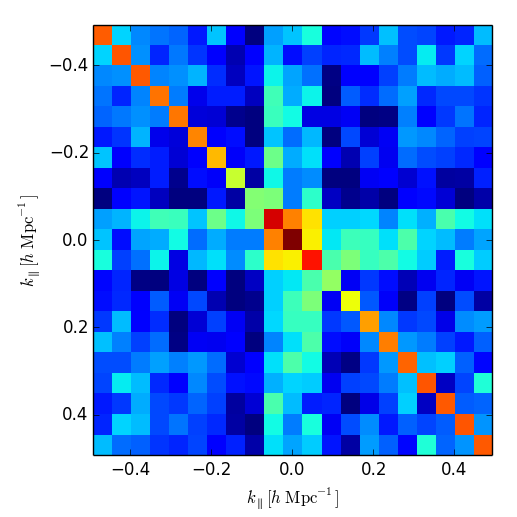
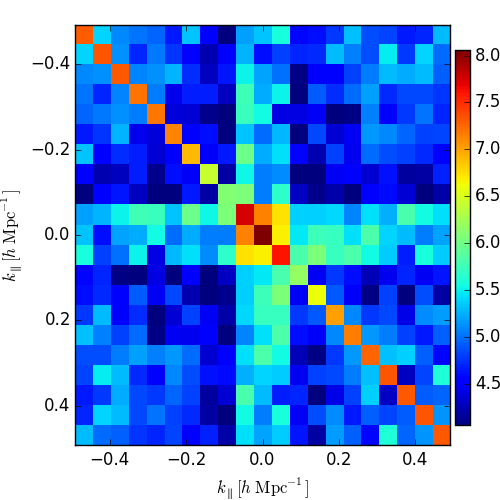
update to a few plots

diff --git a/plots/pspec_plot_pk_k3pk.py b/plots/pspec_plot_pk_k3pk.py
@@ -23,6 +23,8 @@ o.add_option('--show', action='store_true',
 opts,args = o.parse_args(sys.argv[1:])
 print args
 
+dspec='data/final_pspecs/v032/nocov_pspec.npz'
+args=['data/final_pspecs/v032/pspec.npz']
 
 def noise_level():
     tsys = 500e3 #mK
@@ -65,7 +67,7 @@ def noise_level():
 
 ONLY_POS_K = True
 
-def dual_plot(kpl, pk, err, pkfold=None, errfold=None, umag=16., f0=.164, color='', bins=None):
+def dual_plot(kpl, pk, err, pkfold=None, errfold=None, umag=16., f0=.164, color='', bins=None, upperlimit=False):
     z = C.pspec.f2z(f0)
     kpr = C.pspec.dk_du(z) * umag
     k = n.sqrt(kpl**2 + kpr**2)
@@ -82,7 +84,8 @@ def dual_plot(kpl, pk, err, pkfold=None, errfold=None, umag=16., f0=.164, color=
     #pk = n.abs(pk)
     #p.errorbar(kpl, pk, yerr=err, fmt=color+'.-')
     #p.errorbar(kpl, n.abs(pk), yerr=err, fmt='mx')
-    p.errorbar(kpl, pk, yerr=err, fmt=color+'.', capsize=0, linewidth=1.2)
+    if not upperlimit: p.errorbar(kpl, pk, yerr=err, fmt=color+'.', capsize=0, linewidth=1.2)
+    else: p.plot(kpl, pk+err, color+'-')
     #p.errorbar(kpl, pk.imag, yerr=err, fmt=color+'x')
     p.subplot(122)
     k0 = n.abs(kpl).argmin()
@@ -91,7 +94,8 @@ def dual_plot(kpl, pk, err, pkfold=None, errfold=None, umag=16., f0=.164, color=
         pkfold = pk[k0:].copy()
         errfold = err[k0:].copy()
         pkpos,errpos = pk[k0+1:].copy(), err[k0+1:].copy()
-        pkneg,errneg = pk[k0-1:0:-1].copy(), err[k0-1:0:-1].copy()
+        pkneg,errneg = pk[k0-1::-1].copy(), err[k0-1::-1].copy()
+        print pkneg.shape, pkpos.shape
         pkfold[1:] = (pkpos/errpos**2 + pkneg/errneg**2) / (1./errpos**2 + 1./errneg**2)
         errfold[1:] = n.sqrt(1./(1./errpos**2 + 1./errneg**2))
     else:
@@ -100,7 +104,8 @@ def dual_plot(kpl, pk, err, pkfold=None, errfold=None, umag=16., f0=.164, color=
         #pkfold = pkfold.imag
 
     #p.errorbar(k, k3*pk, yerr=k3*err, fmt=color+'.', capsize=0)
-    p.errorbar(k[k0:], k3[k0:]*pkfold, yerr=k3[k0:]*errfold, fmt=color+'.', capsize=0,linewidth=1.2)
+    if not upperlimit: p.errorbar(k[k0:], k3[k0:]*pkfold, yerr=k3[k0:]*errfold, fmt=color+'.', capsize=0,linewidth=1.2)
+    else: p.plot(k[k0:], k3[k0:]*pkfold+k3[k0:]*errfold)
     if not bins is None:
         _kpls, _k3pks, _k3errs = [], [], []
         for (dn,up) in bins:
@@ -171,9 +176,9 @@ def dual_plot(kpl, pk, err, pkfold=None, errfold=None, umag=16., f0=.164, color=
 FG_VS_KPL_NOS = 168.74e6
 FG_VS_KPL = { # K^2
 #    '-0.054':   5.37262e+13,
-#    '-0.027':   7.15304e+14, 
-    ' 0.000':   3.50958e+15, 
-#    ' 0.027':   4.12396e+14, 
+    '-0.049':   1.06015e+15,
+    ' 0.000':   8.44e+15, 
+    ' 0.049':   1.22195e+15, 
 #    ' 0.054':   2.60795e+13,
     #-0.0536455587089:   5.37262e+13,
     #-0.0268227793545:   7.15304e+14, 
@@ -223,6 +228,31 @@ if True:
     for _kpl in dsum_fold:
         RS_VS_KPL_FOLD['total'][_kpl] = (dsum_fold[_kpl] / dwgt_fold[_kpl], 1./n.sqrt(dwgt_fold[_kpl]))
 
+#if False: # put in raw delay spec
+if True: # put in raw delay spec
+    f = n.load(dspec)
+    kpl,pk,err = f['kpl'], f['pk'], f['err']
+    print kpl
+    if True: #if 'I' in sep: # Add foregrounds
+        for cnt,k in enumerate(kpl):
+            k = '%6.3f' % k
+            if not FG_VS_KPL.has_key(k): continue
+            pk[cnt] += FG_VS_KPL[k]
+            err[cnt] = 2*n.sqrt(FG_VS_KPL_NOS*FG_VS_KPL[k])
+#    pk *= .76 # psa747 calibration of Pic A = 370.6 Jy @ 160 MHz (which includes resolution effects)
+#    err *= .76
+    pk *= 2.35 # Use power**2 beam, which is a 1.69/0.72=2.35 penalty factor
+    err *= 2.35
+    pk *= 1.46 # fix scale to reflect new corrected bandwidth normalization
+    err *= 1.46
+    if False: # For aggressive fringe-rate filtering, change beam area
+        pk *= 1.90 # ratio of power**2 beams for filtered * unfiltered beams: 0.306 / 0.162
+        err *= 1.90
+    print pk.shape, err.shape
+    dual_plot(kpl, pk, 2*err, color='c', upperlimit=True) # 2-sigma error bars
+
+
+
 BINS = None
 #BINS = ((-.52,-.4),(-.4,-.2),(-.2,-.15),(-.15,-.1),(-.1,-.06),(-.06,.06),(.06,.1),(.1,.15),(.15,.2),(.2,.4),(.4,.52))
 #BINS = ((-.5,-.25),(-.25,-.125),(-.125,-.0625),(-.0625,.0625),(.0625,.125),(.125,.25),(.25,.5))
@@ -261,7 +291,8 @@ for sep in RS_VS_KPL:
     nos_fold = [1./n.sqrt(dwgt_fold[k]) for k in kpl_fold]
     #d = [RS_VS_KPL[k][0] for k in kpl]
     #nos = [RS_VS_KPL[k][1] for k in kpl]
-    if False: #if 'I' in sep: # Add foregrounds
+    if True: #if 'I' in sep: # Add foregrounds
+        print 'Adding Foregrounds'
         for cnt,k in enumerate(kpl):
             k = '%6.3f' % k
             if not FG_VS_KPL.has_key(k): continue
@@ -275,7 +306,7 @@ for sep in RS_VS_KPL:
         
     d,kpl,nos = n.array(d, dtype=n.complex), n.array(kpl), n.array(nos)
     d_fold,kpl_fold,nos_fold = n.array(d_fold, dtype=n.complex), n.array(kpl_fold), n.array(nos_fold)
-    if opts.flux:
+    if False:
         # PSA32 was calibrated to Pictor A @ 160 MHz = 424 Jy
         # To recalibrate to new Pic A, must multiply by square of ratio of fluxes
         # Jacobs et al 2013 says Pic A = 382 @ 150 MHz, index=-0.76, so at 160 MHz, Pic A = 364 Jy
@@ -287,14 +318,14 @@ for sep in RS_VS_KPL:
         nos *= f
         d_fold *= f
         nos_fold *= f
-    if opts.beam:
+    if False:
         f = 2.35 # Use power**2 beam, which is a 1.69/0.72=2.35 penalty factor
         print 'Scaling data and noise by %f for correcting cosmo scalar to use power^2 beam' % f
         d *= f
         nos *= f
         d_fold *= f
         nos_fold *= f
-    if opts.afrf: # For aggressive fringe-rate filtering, change beam area
+    if True: # For aggressive fringe-rate filtering, change beam area
         f = opts.afrf_factor
         f = 1.90 # ratio of power**2 beams for filtered * unfiltered beams: 0.306 / 0.162
         print 'Scaling data and noise by %f for beam constriction in aggressive fringe-rate filtering' % f
@@ -302,7 +333,7 @@ for sep in RS_VS_KPL:
         nos *= f
         d_fold *= f
         nos_fold *= f
-    if opts.cov: # extra penalty for signal loss in covariance diagonalization
+    if True: # extra penalty for signal loss in covariance diagonalization
         #f = 1.2
         f = 1.15 # this is the conservative number, for the biggest modes outside the of the wedge. Get ~1.03 correction at k=.2
         print 'Scaling data and noise by %f for signal loss in covariance diagonalization' % f
@@ -310,9 +341,9 @@ for sep in RS_VS_KPL:
         nos *= f
         d_fold *= f
         nos_fold *= f
-    if opts.med:
-        f = 1.44
-        print 'Scaling data and noise by %f for using median statistics rather than the mean'
+    if True:
+        f = 1/n.log(2)
+        print 'Scaling data and noise by %f for using the median statistic'%f
         d *= f
         nos *= f
         d_fold *= f
@@ -350,13 +381,13 @@ for filename in glob.glob('lidz_mcquinn_k3pk/*7.3*dat'):
 tau_h = 100 + 15. #in ns
 k_h = C.pspec.dk_deta(C.pspec.f2z(.151)) * tau_h
 p.subplot(121)
-p.vlines(k_h, -1e7, 1e10, linestyles='--', linewidth=1.5)
-p.vlines(-k_h, -1e7, 1e10, linestyles='--', linewidth=1.5)
-#p.gca().set_yscale('log', nonposy='clip')
+p.vlines(k_h, -1e7, 1e20, linestyles='--', linewidth=1.5)
+p.vlines(-k_h, -1e7, 1e20, linestyles='--', linewidth=1.5)
+p.gca().set_yscale('log', nonposy='clip')
 p.xlabel(r'$k_\parallel\ [h\ {\rm Mpc}^{-1}]$', fontsize='large')
 p.ylabel(r'$P(k)[\ {\rm mK}^2\ (h^{-1}\ {\rm Mpc})^3]$',fontsize='large')
 #p.ylim(-1e7,1e8)
-p.ylim(-.6e7,1.75e7)
+p.ylim(1e5,5e16)
 p.grid()
 
 
@@ -426,15 +457,26 @@ def posterior(kpl, pk, err, pkfold=None, errfold=None):
     #data/=n.sum(data)
     data /= n.max(data)
     p.figure(5)
-#    p.plot(s, data)
+    p.plot(s, data)
     #use a spline interpolator to get the 1 and 2 sigma limits.
-    spline = interp.interp1d(data,s)
-    print spline
-    print max(data), min(data)
-    print spline(.68), spline(.95)
+    #spline = interp.interp1d(data,s)
+    #print spline
+    #print max(data), min(data)
+    #print spline(.68), spline(.95)
     #p.plot(spline(n.linspace(.0,1,100)),'o')
     p.plot(s, n.exp(-.5)*n.ones_like(s))
     p.plot(s, n.exp(-.5*2**2)*n.ones_like(s))
+#    p.plot(s, ndata)
+    std = n.std(data)
+    mean = n.mean(data) 
+    sig1 = mean+std
+    sig2 = mean+(2*std)
+    print sig1, sig2
+    print n.where(data-sig1 < .01)
+    print mean, std
+    p.xlabel(r'$k^3/2\pi^2\ P(k)\ [{\rm mK}^2]$', fontsize='large')
+    p.ylabel('Posterior Probability Density', fontsize='large')
+    p.xlim(0,600)
     p.show()
 
 #posterior(f['kpl'], f['pk'], f['err'], f['pk_fold'], f['err_fold'])

diff --git a/plots/pspec_plot_pk_k3pk_multi.py b/plots/pspec_plot_pk_k3pk_multi.py
@@ -1,7 +1,7 @@
 #! /usr/bin/env python
 import aipy as a, numpy as n, pylab as p
 import capo as C
-import sys, optparse, re, os
+import sys, optparse, re, os, glob
 
 o=optparse.OptionParser()
 o.add_option('--flux', action='store_true', 
@@ -21,8 +21,12 @@ o.add_option('--show', action='store_true',
 opts,args = o.parse_args(sys.argv[1:])
 print args
 
+args = glob.glob('data/final_pspecs/v03*/pspec.npz')
+
 ERRORS = {}
 
+
+fig = p.figure(figsize=(12,7.2))
 def dual_plot(kpl, pk, err, pkfold=None, errfold=None, umag=16, f0=.164, color='', ls='.', bins=None, verbose=True, offset=0):
     z = C.pspec.f2z(f0)
     kperp = C.pspec.dk_du(z) * umag #k_perp, from baseline length in wavelengths.
@@ -124,8 +128,9 @@ RS_VS_KPL_FOLD = {} #K^2
 powerspec, powerspecwgt = {}, {}
 powerspec_fold, powerspecwgt_fold = {}, {}
 
-colors = 'kkk'
-lss = ['-','--','-.',':']
+colors = 'cmk'
+#lss = ['-','--','-.',':']
+lss = ['-','-','-',':']
 for filename in args:
     print 'Reading', filename
     f = n.load(filename)
@@ -167,7 +172,7 @@ for cnt,filename in enumerate(args):
     d,kpl,nos = n.array(d, dtype=n.complex), n.array(ks), n.array(nos)
     d_fold,kpl_fold,nos_fold = n.array(d_fold, dtype=n.complex), n.array(ks_fold), n.array(nos_fold)
     
-    if opts.flux:
+    if False:
         # PSA32 was calibrated to Pictor A @ 160 MHz = 424 Jy
         # To recalibrate to new Pic A, must multiply by square of ratio of fluxes
         # Jacobs et al 2013 says Pic A = 382 @ 150 MHz, index=-0.76, so at 160 MHz, Pic A = 364 Jy
@@ -179,7 +184,7 @@ for cnt,filename in enumerate(args):
         nos *= f
         d_fold *= f
         nos_fold *= f
-    if opts.beam:
+    if False:
         f = 2.35 # Use power**2 beam, which is a 1.69/0.72=2.35 penalty factor
         print 'Scaling data and noise by %f for correcting cosmo scalar to use power^2 beam' % f
         d *= f
@@ -187,24 +192,34 @@ for cnt,filename in enumerate(args):
         d_fold *= f
         nos_fold *= f
     #if True: # For aggressive fringe-rate filtering, change beam area
-    if opts.afrf: # For aggressive fringe-rate filtering, change beam area
-        f = opts.afrf_factor
+    if True: # For aggressive fringe-rate filtering, change beam area
+        if 'v031' in filename: pass
+        #f = opts.afrf_factor
         f = 1.90 # ratio of power**2 beams for filtered * unfiltered beams: 0.306 / 0.162
         print 'Scaling data and noise by %f for beam constriction in aggressive fringe-rate filtering' % f
         d *= f
         nos *= f
         d_fold *= f
         nos_fold *= f         
-    if opts.cov: # extra penalty for signal loss in covariance diagonalization
-        f = 1.5
+    if True: # extra penalty for signal loss in covariance diagonalization
+        f = 1.15#updated value
         print 'Scaling data and noise by %f for signal loss in covariance diagonalization' % f
         d *= f
         nos *= f
         d_fold *= f
         nos_fold *= f
+
+    if True: # penalty for using median statistic
+        f = 1/n.log(2)#updated value
+        print 'Scaling data and noise by %f for signal loss in covariance diagonalization' % f
+        d *= f
+        nos *= f
+        d_fold *= f
+        nos_fold *= f
+ 
     
     if d_fold.size==0: d_fold,nos_fold=None,None
-    dual_plot(kpl, d, 2*nos, d_fold, 2*nos_fold, color=colors[0], ls=lss[0], bins=None, f0=freq, offset=.01*cnt)
+    dual_plot(kpl, d, 2*nos, d_fold, 2*nos_fold, color=colors[0], ls=lss[0], bins=None, f0=freq, offset=.005*cnt)
     colors = colors[1:] + colors[0]
     lss = lss[1:] + lss[:1]
 
@@ -220,10 +235,10 @@ k_h = C.pspec.dk_deta(C.pspec.f2z(.151)) * tau_h
 p.subplot(121)
 p.vlines(k_h, -1e7, 1e10, linestyles='--', linewidth=1.5)
 p.vlines(-k_h, -1e7, 1e10, linestyles='--', linewidth=1.5)
-#p.gca().set_yscale('log', nonposy='clip')
-p.xlabel(r'$k_\parallel\ [h\ {\rm Mpc}^{-1}]$')
-p.ylabel(r'$P(k)\ [{\rm mK}^2\ (h^{-1}\ {\rm Mpc})^3]$')
-p.ylim(-.6e7,1.75e7)
+p.gca().set_yscale('log', nonposy='clip')
+p.xlabel(r'$k_\parallel\ [h\ {\rm Mpc}^{-1}]$', fontsize='large')
+p.ylabel(r'$P(k)\ [{\rm mK}^2\ (h^{-1}\ {\rm Mpc})^3]$', fontsize='large')
+p.ylim(1e5,1e9)
 p.grid()
 
 
@@ -250,8 +265,8 @@ except:
 #
 #
 p.gca().set_yscale('log', nonposy='clip')
-p.xlabel(r'$k\ [h\ {\rm Mpc}^{-1}]$')
-p.ylabel(r'$k^3/2\pi^2\ P(k)\ [{\rm mK}^2]$')
+p.xlabel(r'$k\ [h\ {\rm Mpc}^{-1}]$', fontsize='large')
+p.ylabel(r'$k^3/2\pi^2\ P(k)\ [{\rm mK}^2]$', fontsize='large')
 p.ylim(1e0,1e9)
 p.xlim(0, 0.6)
 #p.suptitle(colors)

diff --git a/plots/plot_picimg.py b/plots/plot_picimg.py
@@ -24,6 +24,11 @@ o.add_option('-f', '--fft', dest='fft', action='store_true',
     help='Perform 2D FFT of image.')
 opts, args = o.parse_args(sys.argv[1:])
 
+opts.drng = 4
+opts.max = 2
+
+args = ['data/gianni/all_psa64-image.fits']
+
 cmap = p.get_cmap(opts.cmap)
 if opts.batch: m1,m2 = 1,1
 else:
@@ -87,22 +92,32 @@ for cnt, filename in enumerate(args):
     if not opts.drng is None: min = max - opts.drng
     else: min = d.min()
 
-    fig = p.figure(figsize=(4.5,4.5))
+#    fig = p.figure(figsize=(4.5,4.5))
     fig = p.figure()
     p.subplot(m2, m1, cnt+1)
     if not opts.nogrid:
         from mpl_toolkits.basemap import Basemap
+        from matplotlib.patches import Circle
         xpx,ypx = d.shape
         dx1 = -(xpx/2 + .5) * kwds['d_ra'] * a.img.deg2rad
         dx2 = (xpx/2 - .5) * kwds['d_ra'] * a.img.deg2rad
         dy1 = -(ypx/2 + .5) * kwds['d_dec'] * a.img.deg2rad
         dy2 = (ypx/2 - .5) * kwds['d_dec'] * a.img.deg2rad
-        map = Basemap(projection='ortho', lon_0=180, lat_0=kwds['dec'],
-            rsphere=1, llcrnrx=dx1, llcrnry=dy1, urcrnrx=dx2,urcrnry=dy2)
-        map.drawmeridians(n.arange(kwds['ra']-180,kwds['ra']+180,30))
-        map.drawparallels(n.arange(-90,120,30))
+        map = Basemap(projection='ortho', lon_0=kwds['ra'], lat_0=kwds['dec'],
+            rsphere=1, llcrnrx=dx1, llcrnry=dy1, urcrnrx=dx2,urcrnry=dy2, celestial=True)
+        map.drawmeridians(n.arange(kwds['ra']-180,kwds['ra']+180,15), labels=[False,False,False,True])
+        map.drawparallels(n.arange(-90,120,15), labels=[False,True,True,False])
         map.drawmapboundary()
         im1 = map.imshow(d, vmin=min, vmax=max, cmap=cmap, interpolation='nearest')
+
+        picdec = -45.78
+        picra = -80.09
+        picdec = -37.2083
+        picra = -50.6708
+        x,y = map(picra, picdec)
+        circ = Circle((x,y), radius=.01, facecolor='none',edgecolor='black' )
+        p.gca().add_patch(circ)
+
     else: im1 = p.imshow(d, vmin=min, vmax=max, origin='lower', cmap=cmap, interpolation='nearest')
 
     fig.subplots_adjust(left=.08, top=.95, bottom=.08, wspace=.3, hspace=.1, right=.85)

diff --git a/plots/plot_fisher.py b/plots/plot_fisher.py
@@ -6,8 +6,15 @@ F = npz['FC']
 kpl = npz['kpl']
 
 fig = p.figure(figsize=(5,5))
-capo.arp.waterfall(F, drng=4, extent=(kpl[0],kpl[-1],kpl[-1],kpl[0]))
-fig.subplots_adjust(left=.18, top=.95, bottom=.12, wspace=.2, hspace=.1, right=0.95)
+#im1 = capo.arp.waterfall(F, drng=4, extent=(kpl[0],kpl[-1],kpl[-1],kpl[0]))
+F = n.absolute(F)
+F = n.ma.masked_less_equal(F,0)
+F = n.ma.log10(F)
+im1 = p.imshow(F, vmax=F.max(), vmin=F.max()-4, extent=(kpl[0],kpl[-1],kpl[-1],kpl[0]), aspect='auto', interpolation='nearest')
+fig.subplots_adjust(left=.15, top=.95, bottom=.11, wspace=.2, hspace=.1, right=0.9)
 p.xlabel(r'$k_\parallel\ [h\ {\rm Mpc}^{-1}]$')
 p.ylabel(r'$k_\parallel\ [h\ {\rm Mpc}^{-1}]$')
+cbar_axis=fig.add_axes([.91, .15, .03, .75])
+fig.colorbar(im1, cax=cbar_axis)
+
 p.show()
